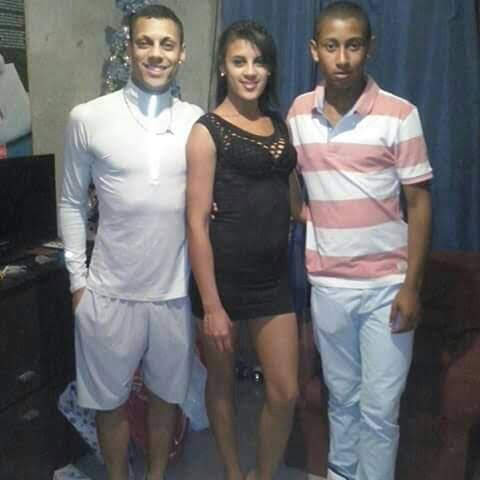
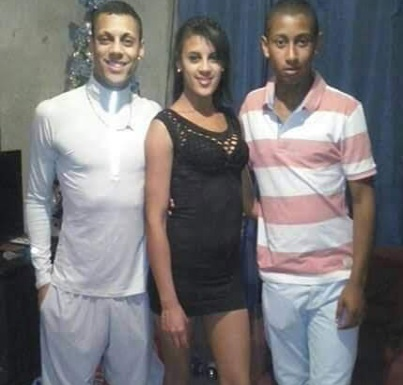
correcion de video y foto de los hijos

diff --git a/docs/index.html b/docs/index.html
@@ -200,7 +200,8 @@
 						.container {
 							display: flex;
 							flex-direction: column;
-							width: 100%;
+							width: 100% !important;
+							margin: auto;
 						}
 						@media only screen and (min-width: 600px) {
 							/* Aplicar el orden normal en dispositivos mayores a 600px */
@@ -217,7 +218,7 @@
 							#1 {
 							order: 1;
 							}
-				
+			
 							#2 {
 							order: 2;
 							}
@@ -225,6 +226,7 @@
 						@media only screen and (max-width: 600px) and (orientation: portrait) {
 							/* Expandir al máximo en dispositivos móviles en modo retrato */
 							.content {
+								align-items: center !important;
 							width: 100% !important;
 							padding: 0.5rem;
 							margin: 0.5rem;
@@ -240,12 +242,11 @@
     <div id="1" class="content" style="text-align:left">
         Tropiluzradio, un ministerio cristiano, comparte el evangelio y respalda a músicos emergentes. Su lema, "Somos Tropiluzradio, una radio con luz propia, la luz de Dios", refleja su misión. Fundado por Mario Pereyra, talentoso cantautor contemporáneo, Tropiluz Radio es un refugio apasionado que va más allá de la música conmovedora. Pereyra ha dejado un legado que trasciende las fronteras musicales, demostrado por el impacto positivo en sus seguidores. La comunidad de Tropiluz Radio fusiona música y espiritualidad, creando un espacio armónico de amor y admiración por este talentoso artista. Su programación irradia la luz divina que transforma almas.
     </div>
-    <div id="2" class="content">
+    <div id="2" class="content" style="margin: 0 0.5rem !important;">
         <div class="embed-responsive embed-responsive-16by9">
 			<br><br><br>
             <video controls class="embed-responsive-item" style="border-radius: 1rem;">
                 <source src="images/video.mp4" type="video/mp4">
-                Tu navegador no soporta el elemento de video.
             </video>
         </div>
 	</div>
@@ -266,21 +267,22 @@
 					<header>
 						<h2>Proyecto piensa</h2>
 					</header>
-					<div class="row">
-						<div class="col">
+					<div class="container">
 							<div class="content" style="text-align:left">
 								<p>
 									Proyecto Piensa, una producción musical cristiana, se une a Tropiluzradio en la misión de resaltar a Cristo como su objetivo central. Su enfoque es que el nombre de Cristo sea el motivo de la vida diaria y que a través de la música, el testimonio sea el vehículo para alcanzar el amor de Dios a las personas. En colaboración con el talentoso cantautor contemporáneo Mario Pereyra, fundador de Tropiluz Radio, Proyecto Piensa amplifica la espiritualidad y el mensaje evangélico a través de composiciones que trascienden barreras. Esta fusión musical y espiritual crea un espacio donde la fe se expresa de manera auténtica, conectando con aquellos que buscan la luz divina a través de la música cristiana.
 								</p>
 							</div>
-						</div>
-						<div class="col">
-							<div class="video-container">
+							<style>
+								iframe{
+									width:100% !important;
+								}
+							</style>
+							<div class=" content video-container">
 								<br>
 								<iframe width="140%" height="80%" src="https://www.youtube.com/embed/5SUvpJ2zUrE" frameborder="0" allowfullscreen style="border-radius: 1rem;">
 								</iframe>
 							</div>
-						</div>
 					</div>
 					<footer align="left">
 						<a href="proyectoPiensa.html" class="button alt">Saber más</a>

diff --git a/docs/comunidad.html b/docs/comunidad.html
@@ -45,7 +45,7 @@
 						<p><span class="image right"><img src="images/lanegri.jpg" alt="" style="height:70%; width: auto;"/></span>La música, para Pereyra, se convirtió en un medio para transmitir mensajes espirituales de esperanza, amor y redención. Cada composición se volvió una expresión de su fe, una plegaria en forma de canción que invitaba a la reflexión y al encuentro con lo divino. Su habilidad para fusionar la musicalidad con la espiritualidad creó un puente entre dos mundos aparentemente dispares, conectando con audiencias de diversas creencias y experiencias de vida.</p>
 						<p>El compromiso de Mario Pereyra con su fe fue más allá de las palabras y las melodías. Participó activamente en obras benéficas y proyectos sociales, utilizando su influencia para impactar positivamente en comunidades necesitadas. Su visión de la fe como un motor para la acción inspiró a muchos a seguir su ejemplo y trabajar por el bienestar de quienes menos tienen.</p>
 						<br>
-						<p><span class="image left"><img src="images/hijos.jpg" alt="" style="height:65%; width: auto;" /></span>Casado con María Lina Ferreira, oriunda del departamento de Tacuarembó, han construido juntos una vida llena de amor y valores. Sus tres hijos, Guillermo Eliseo, Deborah Yanet y Marcos Esteban, son testimonio de la dedicación y orientación que Mario brinda como padre.</p>
+						<p><span class="image left"><img src="images/hijos.jpg" style="height:40%; width: auto;"/></span>Casado con María Lina Ferreira, oriunda del departamento de Tacuarembó, han construido juntos una vida llena de amor y valores. Sus tres hijos, Guillermo Eliseo, Deborah Yanet y Marcos Esteban, son testimonio de la dedicación y orientación que Mario brinda como padre.</p>
 					
 						<p>La familia Pereyra no solo es un reflejo de amor y unidad, sino también un faro de esperanza para la comunidad. Sus nietos, Tihago Benjamín, Génesis Melec y Delfina, han heredado la fortaleza espiritual y los valores inquebrantables que Mario ha cultivado a lo largo de los años. Cada miembro de la familia es una piedra angular en la estructura que Mario ha construido con amor, fe y compromiso.</p>
 <br>					
